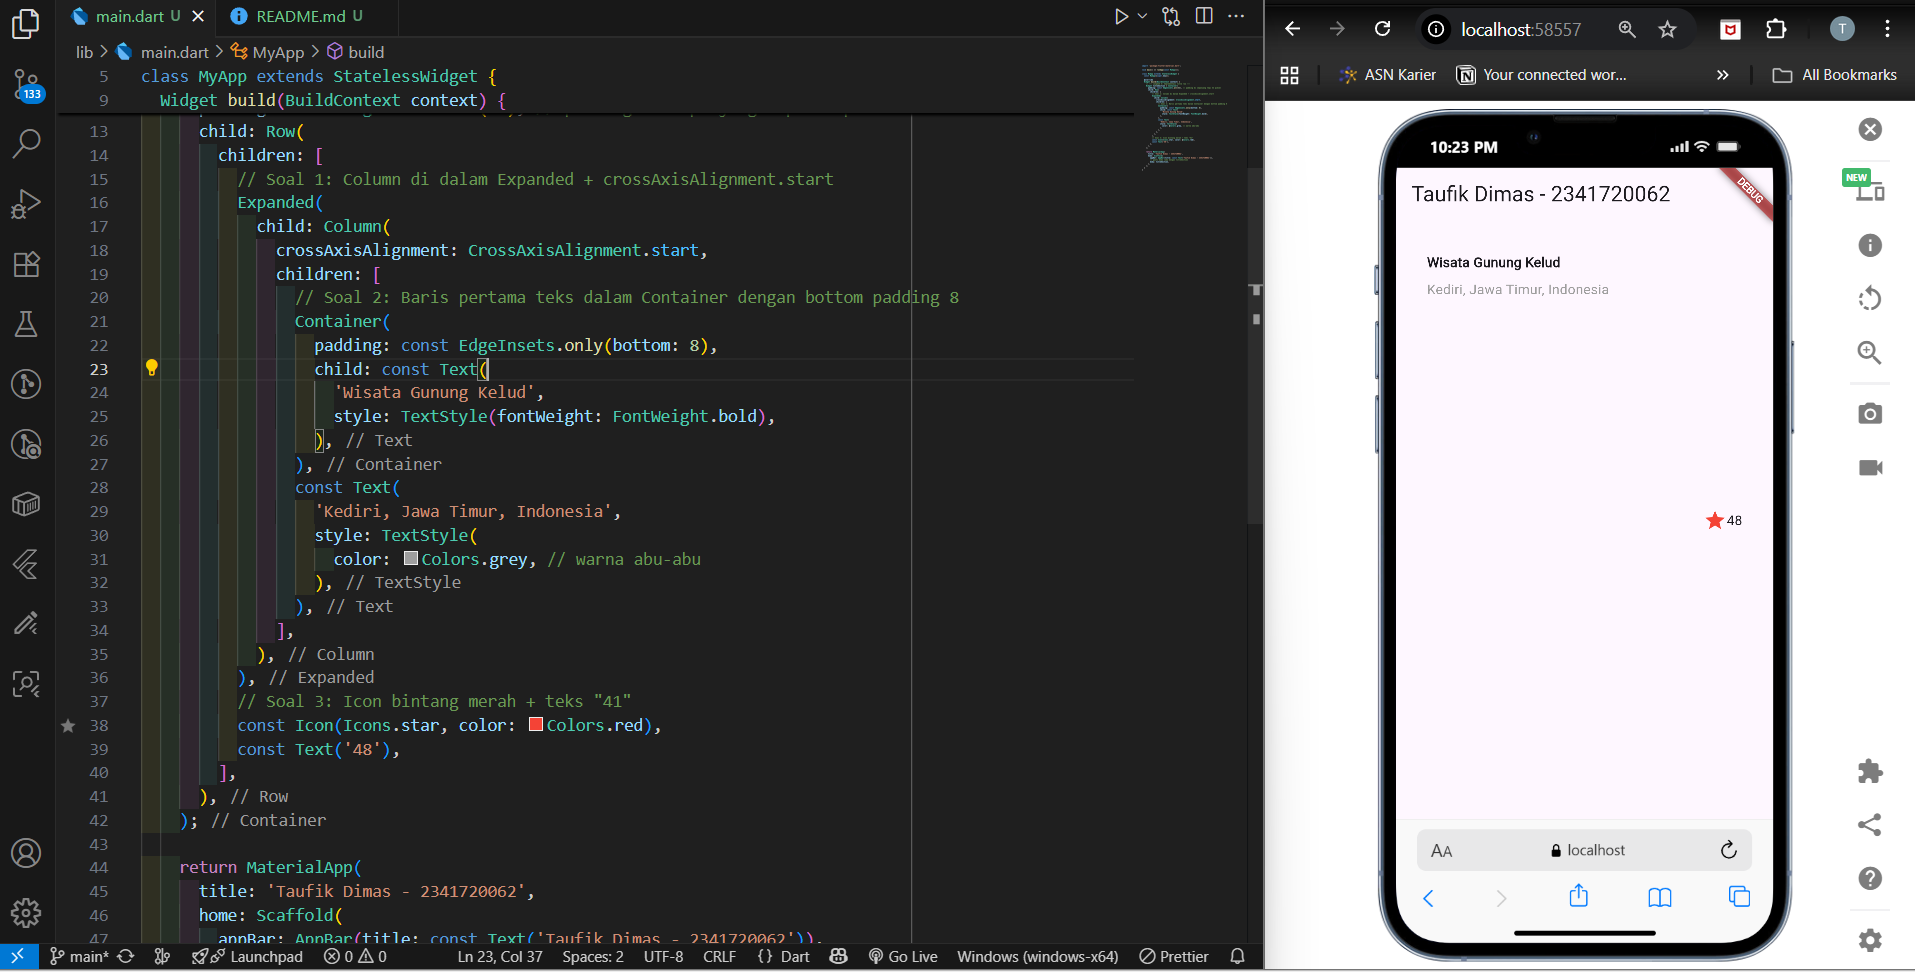
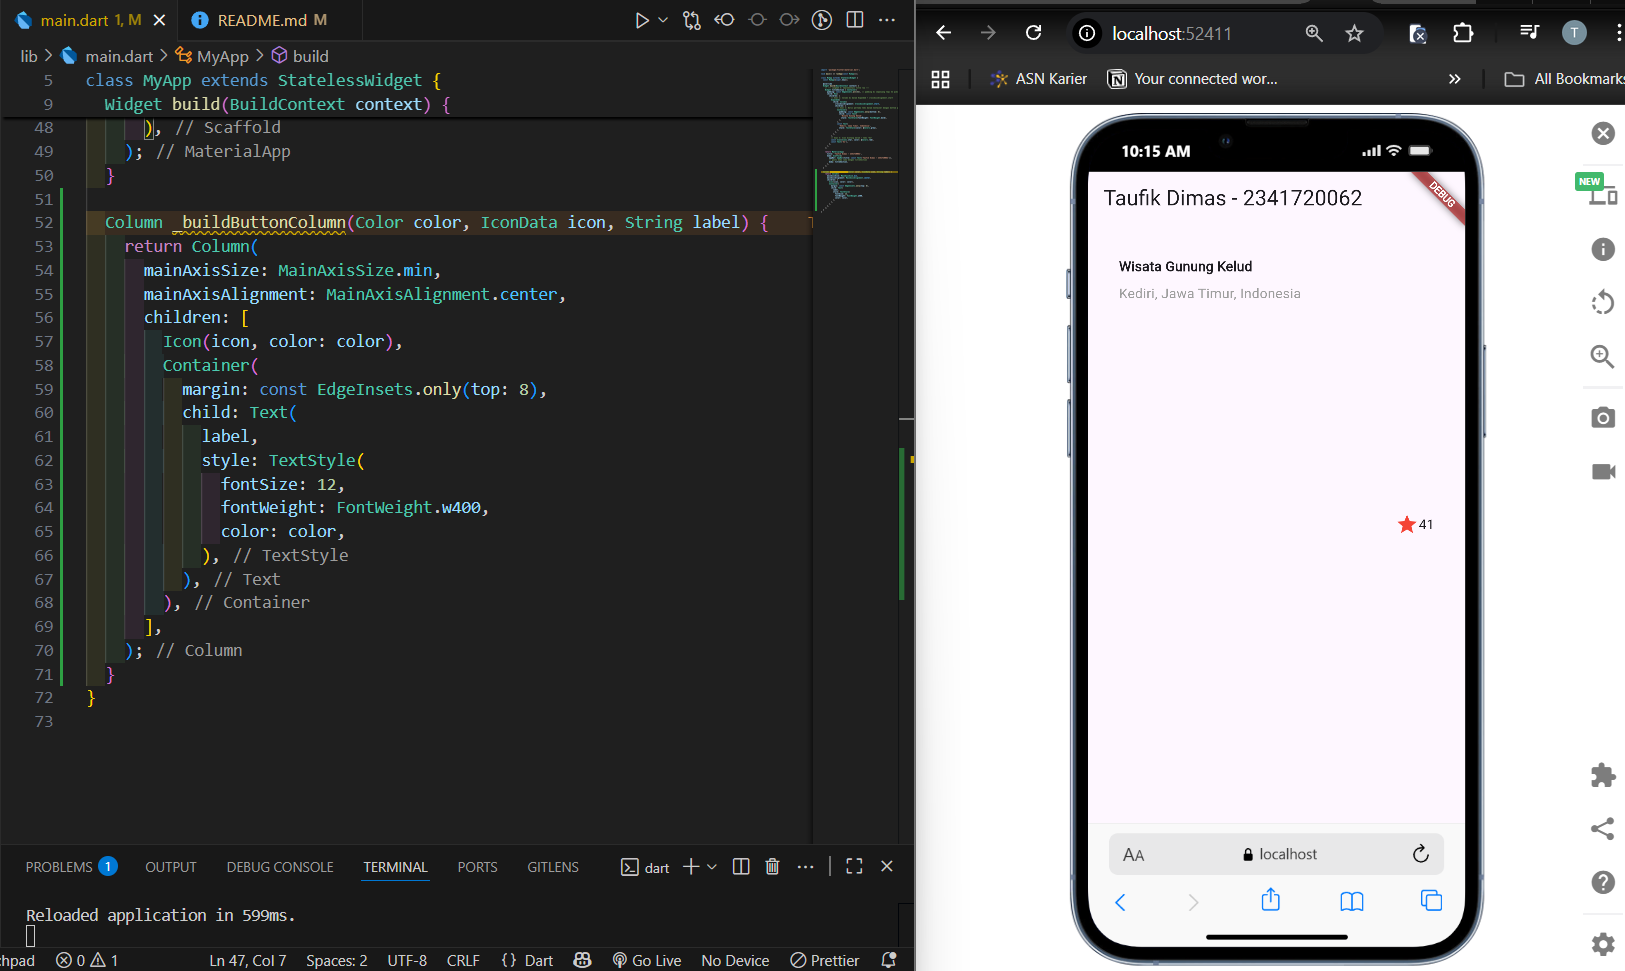
feat: pratikum layout_flutter

diff --git a/Week-06/src/layout_flutter_27/lib/main.dart b/Week-06/src/layout_flutter_27/lib/main.dart
@@ -39,13 +39,81 @@ class MyApp extends StatelessWidget {
       ),
     );
 
+    Color color = Theme.of(context).primaryColor;
+
+    Widget buttonSection = Row(
+      mainAxisAlignment: MainAxisAlignment.spaceEvenly,
+      children: [
+        _buildButtonColumn(color, Icons.call, 'CALL'),
+        _buildButtonColumn(color, Icons.near_me, 'ROUTE'),
+        _buildButtonColumn(color, Icons.share, 'SHARE'),
+      ],
+    );
+
+    Widget textSection = Container(
+      padding: const EdgeInsets.all(32),
+      child: Column(
+        crossAxisAlignment: CrossAxisAlignment.start,
+        children: [
+          const Text(
+            'Gunung Kelud adalah salah satu gunung berapi aktif yang terletak di Kediri, Jawa Timur. Gunung ini terkenal dengan panorama alamnya yang indah, udara sejuk, dan jalur pendakian yang menantang.',
+            style: TextStyle(fontSize: 13, height: 1.5),
+            softWrap: true,
+          ),
+          const SizedBox(height: 16),
+          const Divider(),
+          const SizedBox(height: 8),
+          const Text(
+            'Taufik Dimas - 2341720062',
+            style: TextStyle(
+              fontSize: 12,
+              fontWeight: FontWeight.bold,
+              color: Colors.blueGrey,
+            ),
+          ),
+        ],
+      ),
+    );
+
     return MaterialApp(
       title: 'Taufik Dimas - 2341720062',
       home: Scaffold(
         appBar: AppBar(title: const Text('Taufik Dimas - 2341720062')),
-        // ganti body lama dengan titleSection
-        body: titleSection,
+        body: ListView(
+          children: [
+            Image.asset(
+              'images/gunung.png',
+              width: 600,
+              height: 240,
+              fit: BoxFit.cover,
+            ),
+            titleSection,
+            buttonSection,
+            textSection,
+          ],
+        ),
       ),
+    );
+  }
+
+  Column _buildButtonColumn(Color color, IconData icon, String label) {
+    return Column(
+      mainAxisSize: MainAxisSize.min,
+      mainAxisAlignment: MainAxisAlignment.center,
+      children: [
+        Icon(icon, color: color),
+        Container(
+          margin: const EdgeInsets.only(top: 8),
+          child: Text(
+            label,
+            style: TextStyle(
+              fontSize: 12,
+              fontWeight: FontWeight.w400,
+              color: color,
+            ),
+          ),
+        ),
+      ],
     );
   }
 }

diff --git a/Week-06/README.md b/Week-06/README.md
@@ -42,3 +42,193 @@
 > - Alignment, padding, dan border diatur agar rapi
 
 ### **Langkah 4 : Implementasi title row**
+
+> Kode Program
+
+```
+import 'package:flutter/material.dart';
+
+void main() => runApp(const MyApp());
+
+class MyApp extends StatelessWidget {
+  const MyApp({super.key});
+
+  @override
+  Widget build(BuildContext context) {
+    // --- Langkah 4: Implementasi title row ---
+    Widget titleSection = Container(
+      padding: const EdgeInsets.all(32), // padding di sepanjang tepi 32 piksel
+      child: Row(
+        children: [
+          // Soal 1: Column di dalam Expanded + crossAxisAlignment.start
+          Expanded(
+            child: Column(
+              crossAxisAlignment: CrossAxisAlignment.start,
+              children: [
+                // Soal 2: Baris pertama teks dalam Container dengan bottom padding 8
+                Container(
+                  padding: const EdgeInsets.only(bottom: 8),
+                  child: const Text(
+                    'Wisata Gunung Kelud',
+                    style: TextStyle(fontWeight: FontWeight.bold),
+                  ),
+                ),
+                const Text(
+                  'Kediri, Jawa Timur, Indonesia',
+                  style: TextStyle(color: Colors.grey),
+                ),
+              ],
+            ),
+          ),
+          // Soal 3: Icon bintang merah + teks "41"
+          const Icon(Icons.star, color: Colors.red),
+          const Text('41'),
+        ],
+      ),
+    );
+
+    return MaterialApp(
+      title: 'Taufik Dimas - 2341720062',
+      home: Scaffold(
+        appBar: AppBar(title: const Text('Taufik Dimas - 2341720062')),
+        // ganti body lama dengan titleSection
+        body: titleSection,
+      ),
+    );
+  }
+}
+```
+
+> Tampilan
+
+![Output](img/03.png)
+
+## **Praktikum 2: Implementasi button row1**
+
+### **Langkah 1: Buat method Column_buildButtonColumn**
+
+> Bagian tombol berisi 3 kolom yang menggunakan tata letak yang sama—sebuah ikon di atas baris teks. Kolom pada baris ini diberi jarak yang sama, dan teks serta ikon diberi warna primer.
+
+> Karena kode untuk membangun setiap kolom hampir sama, buatlah metode pembantu pribadi bernama buildButtonColumn(), yang mempunyai parameter warna, Icon dan Text, sehingga dapat mengembalikan kolom dengan widgetnya sesuai dengan warna tertentu.
+
+` lib/main.dart (_buildButtonColumn)`
+
+> Kode Program
+
+```
+class MyApp extends StatelessWidget {
+  const MyApp({super.key});
+
+  @override
+  Widget build(BuildContext context) {
+    // ···
+  }
+
+  Column _buildButtonColumn(Color color, IconData icon, String label) {
+    return Column(
+      mainAxisSize: MainAxisSize.min,
+      mainAxisAlignment: MainAxisAlignment.center,
+      children: [
+        Icon(icon, color: color),
+        Container(
+          margin: const EdgeInsets.only(top: 8),
+          child: Text(
+            label,
+            style: TextStyle(
+              fontSize: 12,
+              fontWeight: FontWeight.w400,
+              color: color,
+            ),
+          ),
+        ),
+      ],
+    );
+  }
+}
+```
+
+### **Langkah 2: Buat widget buttonSection**
+
+> Buat Fungsi untuk menambahkan ikon langsung ke kolom. Teks berada di dalam Container dengan margin hanya di bagian atas, yang memisahkan teks dari ikon.
+
+> Bangun baris yang berisi kolom-kolom ini dengan memanggil fungsi dan set warna, Icon, dan teks khusus melalui parameter ke kolom tersebut. Sejajarkan kolom di sepanjang sumbu utama menggunakan MainAxisAlignment.spaceEvenly untuk mengatur ruang kosong secara merata sebelum, di antara, dan setelah setiap kolom. Tambahkan kode berikut tepat di bawah deklarasi titleSection di dalam metode build():
+
+`lib/main.dart (buttonSection)`
+
+> Kode Program
+
+```
+Color color = Theme.of(context).primaryColor;
+
+Widget buttonSection = Row(
+  mainAxisAlignment: MainAxisAlignment.spaceEvenly,
+  children: [
+    _buildButtonColumn(color, Icons.call, 'CALL'),
+    _buildButtonColumn(color, Icons.near_me, 'ROUTE'),
+    _buildButtonColumn(color, Icons.share, 'SHARE'),
+  ],
+);
+```
+
+### **Langkah 3: Tambah button section ke body**
+
+> Tambahkan variabel buttonSection ke dalam body
+
+#### **Tampilan Pratikum 3**
+
+![Output](img/04.png)
+
+## **Praktikum 3: Implementasi text section**
+
+### **Langkah 1: Buat widget textSection**
+
+> Tentukan bagian teks sebagai variabel. Masukkan teks ke dalam Container dan tambahkan padding di sepanjang setiap tepinya. Tambahkan kode berikut tepat di bawah deklarasi buttonSection:
+
+> Kode Program
+
+```
+Widget textSection = Container(
+  padding: const EdgeInsets.all(32),
+  child: const Text(
+    'Carilah teks di internet yang sesuai '
+    'dengan foto atau tempat wisata yang ingin '
+    'Anda tampilkan. '
+    'Tambahkan nama dan NIM Anda sebagai '
+    'identitas hasil pekerjaan Anda. '
+    'Selamat mengerjakan 🙂.',
+    softWrap: true,
+  ),
+);
+```
+
+> - Dengan memberi nilai softWrap = true, baris teks akan memenuhi lebar kolom sebelum membungkusnya pada batas kata.
+
+### **Langkah 2: Tambahkan variabel text section ke body**
+
+> Tambahkan widget variabel textSection ke dalam body
+
+#### **Tampilan Output Pratikum 3**
+
+![Output](img/05.png)
+
+## **Praktikum 4: Implementasi image section**
+
+### **Langkah 1: Siapkan aset gambar**
+
+> mencari gambar di internet yang ingin ditampilkan. Buatlah folder images di root project layout_flutter. Masukkan file gambar tersebut ke folder images, lalu set nama file tersebut ke file pubspec.yaml
+
+![Output](img/06.png)
+
+### **Langkah 2: Tambahkan gambar ke body**
+
+> Tambahkan aset gambar ke dalam body
+
+![Output](img/07.png)
+
+> - BoxFit.cover memberi tahu kerangka kerja bahwa gambar harus sekecil mungkin tetapi menutupi seluruh kotak rendernya.
+
+### **Langkah 3: Terakhir, ubah menjadi ListView**
+
+> Pada langkah terakhir ini, atur semua elemen dalam ListView, bukan Column, karena ListView mendukung scroll yang dinamis saat aplikasi dijalankan pada perangkat yang resolusinya lebih kecil.
+
+![Output](img/08.png)
